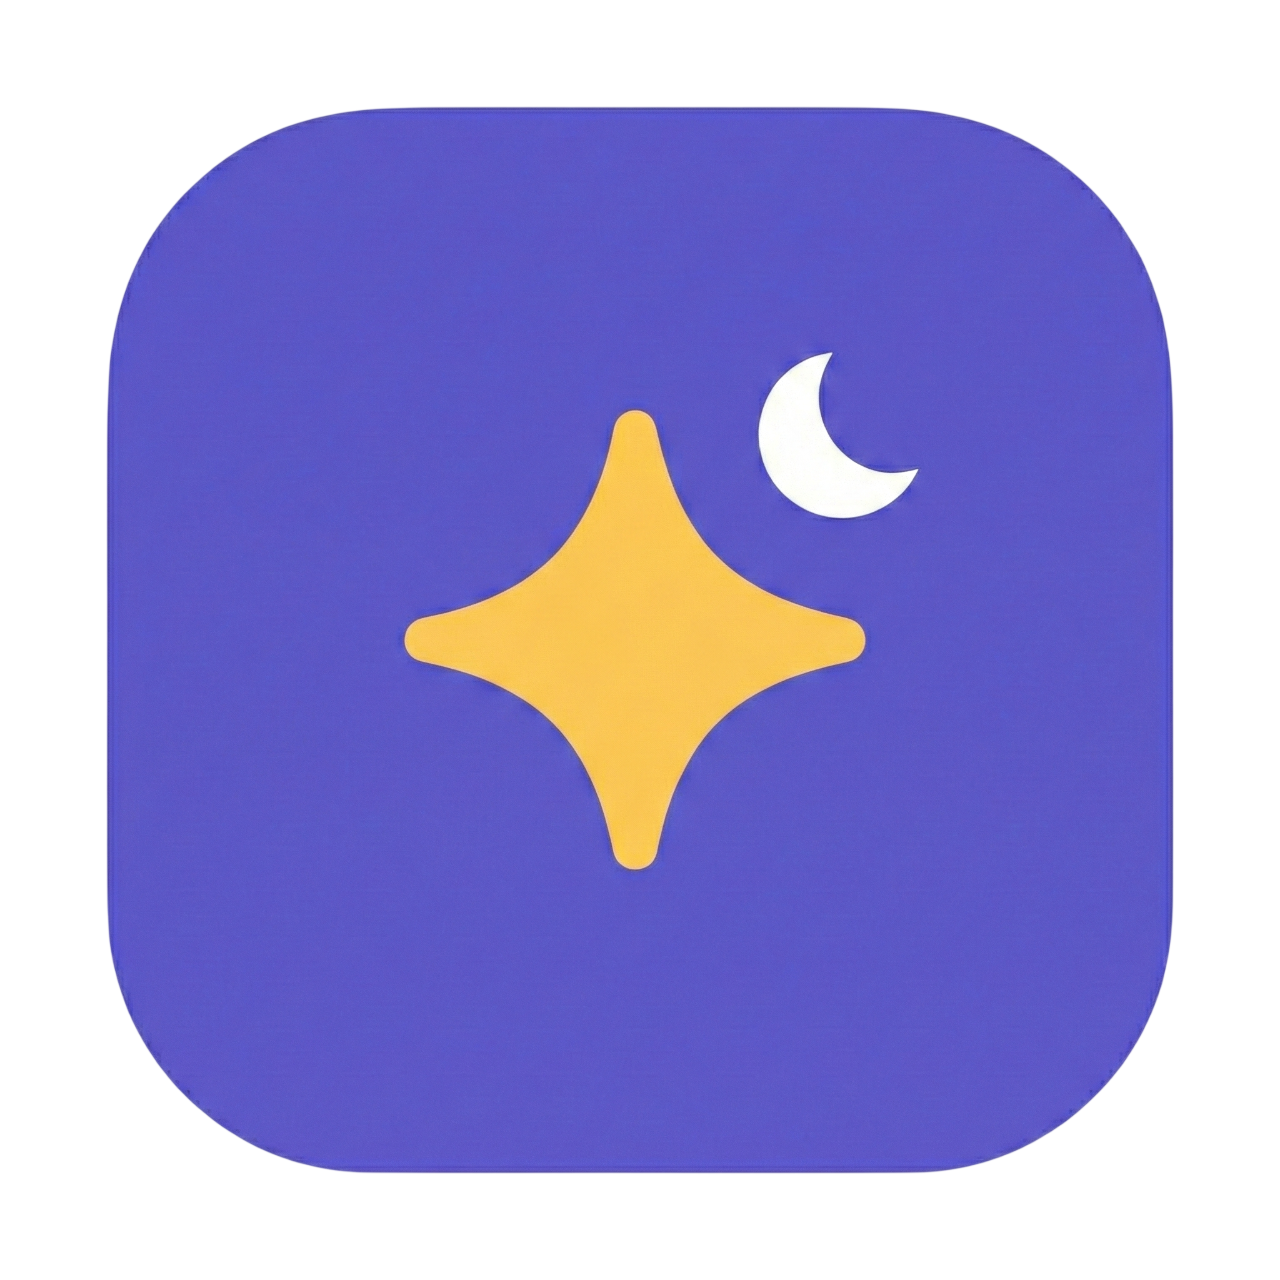
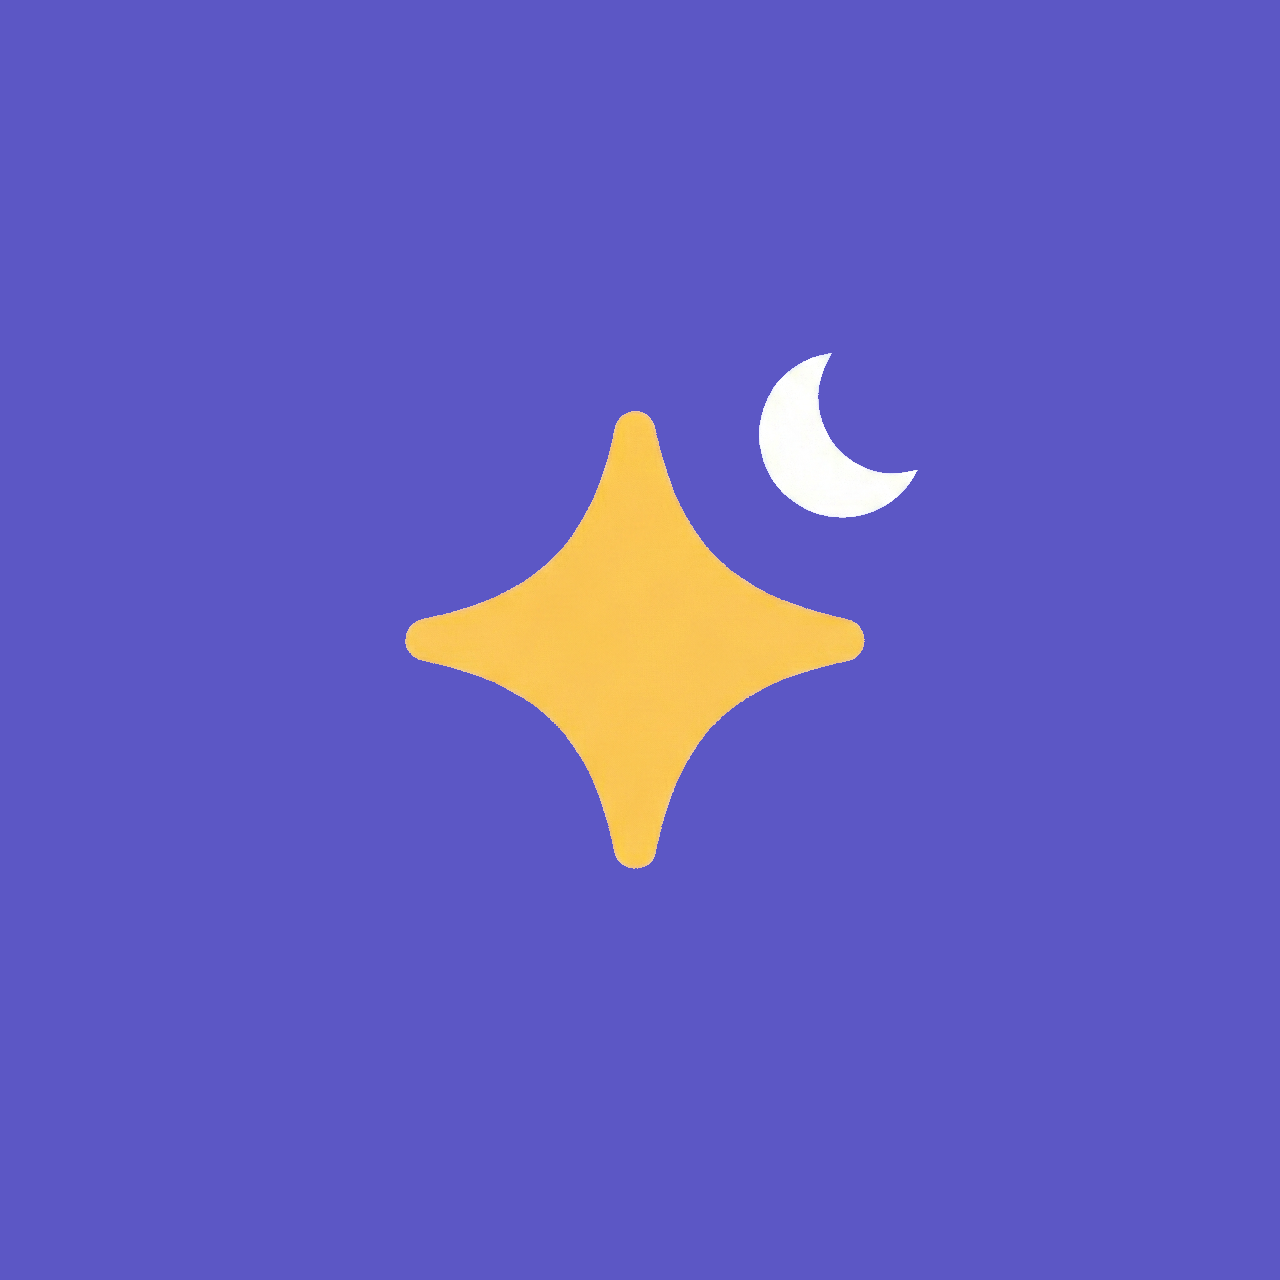
fix: 앱 아이콘 배경색 통일, 공유 시 앱스토어 링크 추가, 스플래시 유지
- 아이콘 라운드 모서리 테두리 제거 및 배경색 통일
- 운세 공유 메시지에 앱스토어 다운로드 링크 포함
- 스플래시 화면이 앱 렌더링 완료까지 유지되도록 수정

diff --git a/app/_layout.tsx b/app/_layout.tsx
@@ -1,9 +1,10 @@
-import { useEffect } from 'react';
+import { useEffect, useCallback, useState } from 'react';
 import { DarkTheme, DefaultTheme, ThemeProvider } from '@react-navigation/native';
 import { QueryClientProvider } from '@tanstack/react-query';
 import { Stack, router } from 'expo-router';
 import { StatusBar } from 'expo-status-bar';
 import { Platform, View, StyleSheet } from 'react-native';
+import * as SplashScreen from 'expo-splash-screen';
 import 'react-native-reanimated';
 
 import { useColorScheme } from '@/hooks/use-color-scheme';
@@ -51,6 +52,8 @@ const FortuneDarkTheme = {
   },
 };
 
+SplashScreen.preventAutoHideAsync();
+
 export const unstable_settings = {
   anchor: '(tabs)',
 };
@@ -58,6 +61,7 @@ export const unstable_settings = {
 export default Sentry.wrap(function RootLayout() {
   const colorScheme = useColorScheme();
   const bgColor = Colors[colorScheme ?? 'light'].background;
+  const [appReady, setAppReady] = useState(false);
 
   useEffect(() => {
     const subscription = notificationService.addNotificationResponseListener(() => {
@@ -67,6 +71,20 @@ export default Sentry.wrap(function RootLayout() {
       subscription?.remove();
     };
   }, []);
+
+  useEffect(() => {
+    // 앱 초기화 완료 후 스플래시 숨기기
+    const timer = setTimeout(() => {
+      setAppReady(true);
+    }, 500);
+    return () => clearTimeout(timer);
+  }, []);
+
+  useEffect(() => {
+    if (appReady) {
+      SplashScreen.hideAsync();
+    }
+  }, [appReady]);
 
   const content = (
     <ThemeProvider

diff --git a/services/share.ts b/services/share.ts
@@ -6,7 +6,8 @@ import { ko } from 'date-fns/locale';
 export const shareService = {
   async shareFortune(fortune: Fortune): Promise<boolean> {
     const date = format(new Date(fortune.date), 'yyyy년 M월 d일', { locale: ko });
-    const message = `\u{1F52E} 오늘의 예감\n\u{1F4C5} ${date}\n\n${fortune.content}\n\n오늘의 예감 앱에서 확인하세요!`;
+    const APP_STORE_URL = 'https://apps.apple.com/app/id6759439435';
+    const message = `\u{1F52E} 오늘의 예감\n\u{1F4C5} ${date}\n\n${fortune.content}\n\n\u{1F517} 앱 다운로드: ${APP_STORE_URL}`;
 
     try {
       if (Platform.OS === 'web') {
